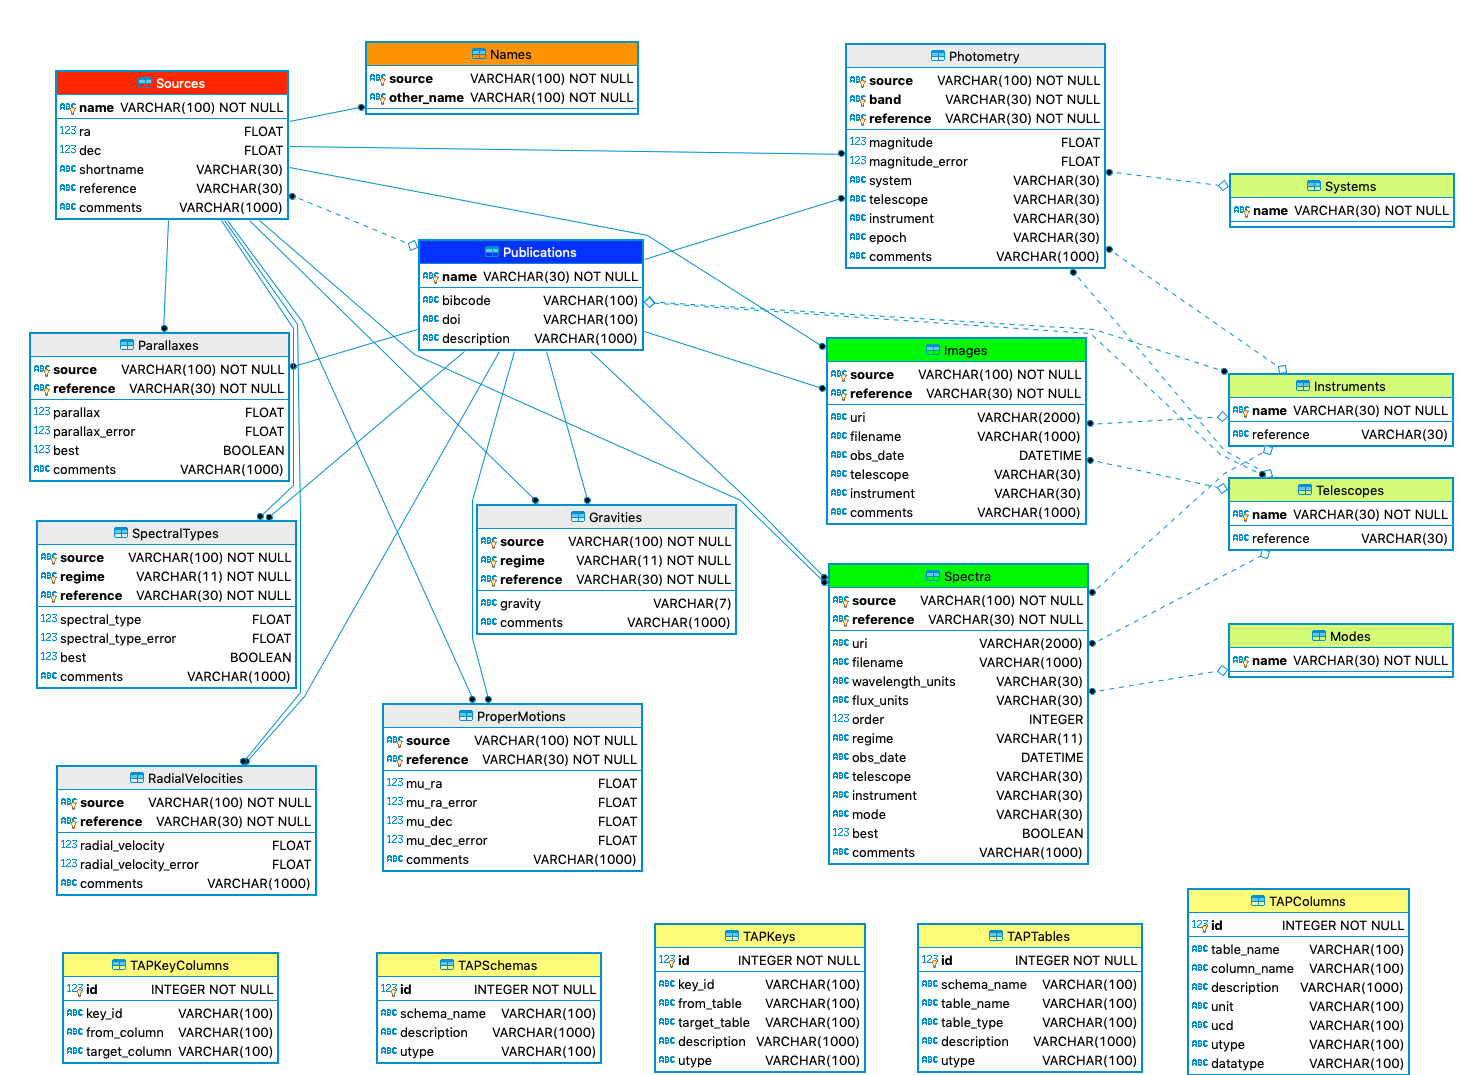
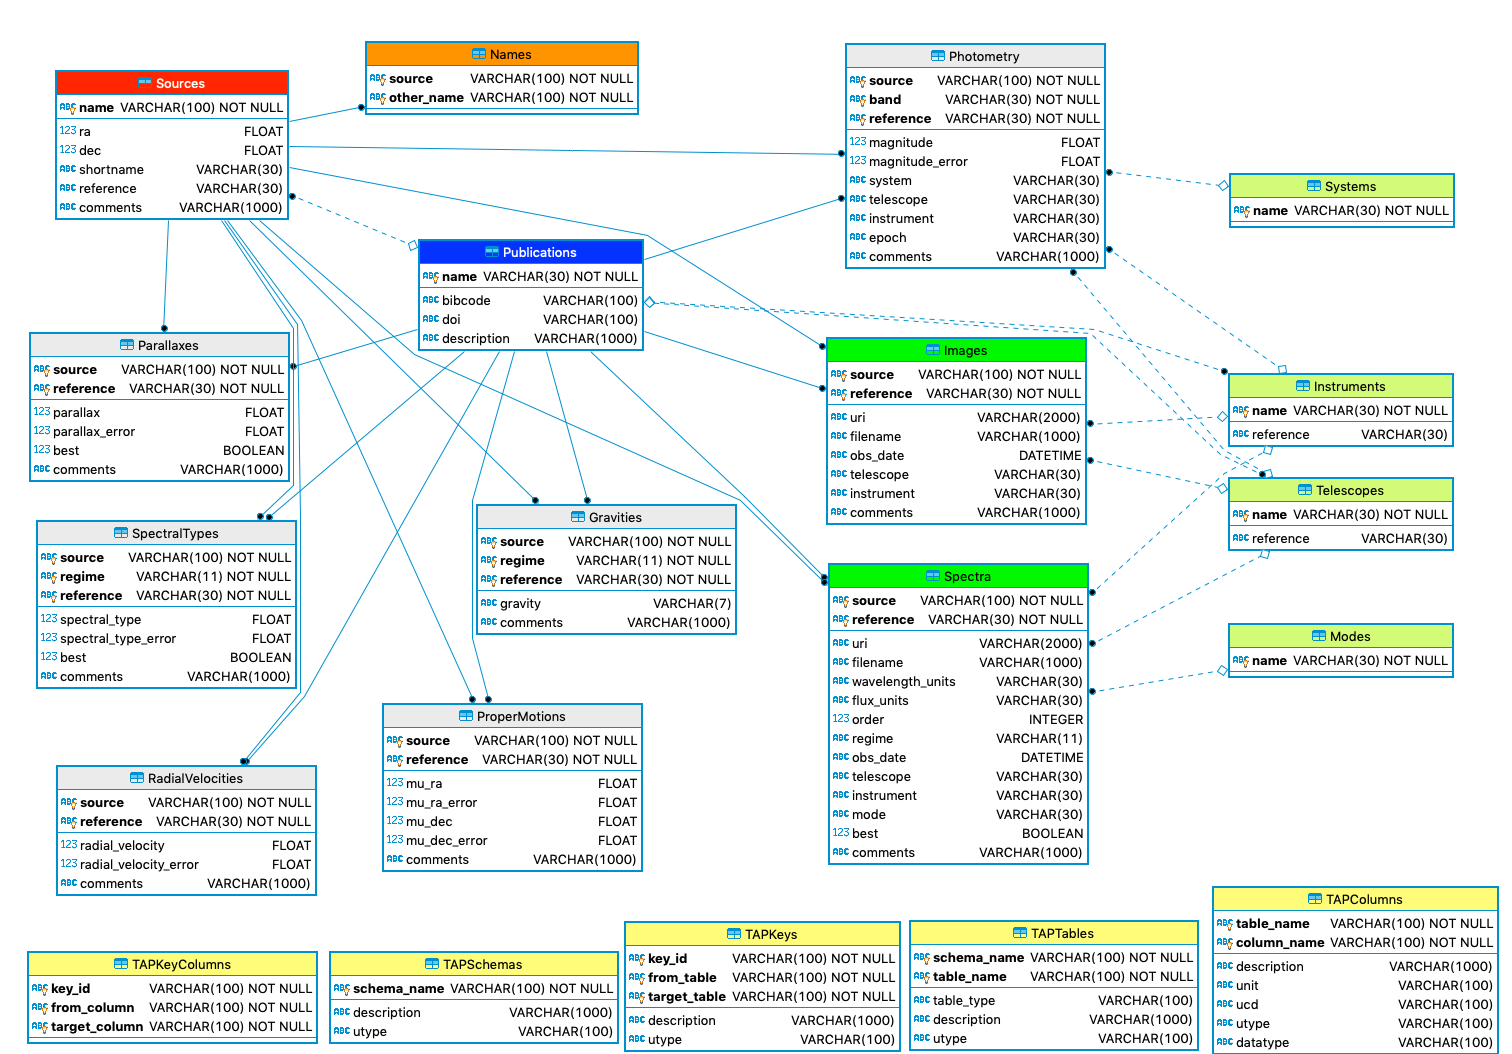
removing surrogate keys from TAP tables; expanding on example queries

diff --git a/scripts/dr_testing.py b/scripts/dr_testing.py
@@ -1,6 +1,7 @@
 # Using schema.py and db.py to handle the basic db connection and the database schema
 
 from simple.core import load_connection
+from sqlalchemy import or_, and_
 
 # Establish connection to database
 # connection_string = 'postgresql://localhost/SIMPLE'
@@ -17,42 +18,76 @@ base.metadata.drop_all()  # drop all the tables
 base.metadata.create_all()  # this explicitly create the SQLite file
 
 
-# Add references
-from sqlalchemy import Table
-Sources = Table('sources', base.metadata, autoload=True)
-Publications = Table('publications', base.metadata, autoload=True)
+# Get tables
+metadata = base.metadata
+metadata.reflect(bind=engine)
+print(metadata.tables)
+Sources = metadata.tables['Sources']
+Publications = metadata.tables['Publications']
+SpectralTypes = metadata.tables['SpectralTypes']
+print(Sources)
 
-publications_data = [{'shortname': 'Penguin 101'},
-                     {'shortname': 'Fake 201'}]
+# Alternative, manual way of defining table
+# from sqlalchemy import Table
+# Sources = Table('Sources', base.metadata, autoload=True)
+# Publications = Table('Publications', base.metadata, autoload=True)
+
+# Add references
+publications_data = [{'name': 'Penguin 101'},
+                     {'name': 'Fake 201'}]
 Publications.insert().execute(publications_data)
 
 # Add sources
-sources_data = [{'ra': 12, 'dec': 23, 'designation': 'Fake 1', 'reference': 'Penguin 101'},
-                {'ra': 212, 'dec': -23, 'designation': 'Fake 2', 'reference': 'Fake 201'}
+sources_data = [{'ra': 12, 'dec': 23, 'name': 'Fake 1', 'reference': 'Penguin 101'},
+                {'ra': 212, 'dec': -23, 'name': 'Fake 2', 'reference': 'Fake 201'}
                 ]
 Sources.insert().execute(sources_data)
 
 # Add source without valid reference- should through an foreign key error
-# empty reference should be fine unless I set the column as nullable=False
-sources_data = [{'ra': 32, 'dec': 54, 'designation': 'Fake 3', 'reference': 'Unknown'}]
+sources_data = [{'ra': 32, 'dec': 54, 'name': 'Fake 3', 'reference': 'Unknown'}]
 Sources.insert().execute(sources_data)
+# Empty references will also fail
+sources_data = [{'ra': 32, 'dec': 54, 'name': 'Fake 4'}]
+Sources.insert().execute(sources_data)
+
+# Spectral Types need regime (an enumeration) supplied in addition to a valid source and reference
+sp_data = [{'source': 'Fake 1', 'spectral_type': 13, 'regime': 'optical', 'reference': 'Fake 201'}]
+SpectralTypes.insert().execute(sp_data)
 
 # Query examples
 results = session.query(Sources).all()
 print(results)
+print(session.query(Publications).all())
+print(session.query(SpectralTypes).all())
 
 results = session.query(Sources).filter(Sources.c.dec > 0).all()
 print(results)
 
-results = session.query(Sources.c.designation).order_by(Sources.c.dec).all()
+results = session.query(Sources.c.name).order_by(Sources.c.dec).all()
 print(results)
 
-results = session.query(Sources.c.designation, Sources.c.reference, Publications.c.shortname)\
-    .join(Publications, Sources.c.reference == Publications.c.shortname).all()
+results = session.query(Sources.c.name, Sources.c.reference, Publications.c.name)\
+    .join(Publications, Sources.c.reference == Publications.c.name).all()
 print(results)
 
+# Update a row
+stmt = SpectralTypes.update().\
+            where(and_(SpectralTypes.c.source == 'Fake 1', SpectralTypes.c.reference == 'Fake 201')).\
+            values(spectral_type=15)
+engine.execute(stmt)
+
+# Direct SQL queries
 results = engine.execute('SELECT * FROM sources').fetchall()
 print(results)
 
+# Alternative query style
+stmt = Sources.select()
+results = engine.execute(stmt)
+print(list(results))
 
+from sqlalchemy import select
+select_st = select([Sources]).where(or_(Sources.c.name == 'Fake 1', Sources.c.name == 'Fake 2')).order_by(Sources.c.ra)
+results = engine.execute(select_st)
+for res in results:
+    print(res)
 

diff --git a/simple/schema.py b/simple/schema.py
@@ -68,7 +68,7 @@ class Sources(Base):
     ra = Column(Float)
     dec = Column(Float)
     shortname = Column(String(30))  # not needed?
-    reference = Column(String(30), ForeignKey('Publications.name'))
+    reference = Column(String(30), ForeignKey('Publications.name'), nullable=False)
     comments = Column(String(1000))
 
 
@@ -182,8 +182,8 @@ class Images(Base):
 class TAPColumns(Base):
     """ORM for the TAP SCHEMA"""
     __tablename__ = 'TAPColumns'
-    table_name = Column(String(100))
-    column_name = Column(String(100))
+    table_name = Column(String(100), primary_key=True)
+    column_name = Column(String(100), primary_key=True)
     description = Column(String(1000))
     unit = Column(String(100))
     ucd = Column(String(100))
@@ -193,45 +193,40 @@ class TAPColumns(Base):
     principal = Integer
     indexed = Integer
     std = Integer
-    id = Column(Integer, primary_key=True, nullable=False, autoincrement=True)  # added to avoid SQLAlchemy errors
 
 
 class TAPKeyColumns(Base):
     """ORM for the TAP SCHEMA"""
     __tablename__ = 'TAPKeyColumns'
-    key_id = Column(String(100))
-    from_column = Column(String(100))
-    target_column = Column(String(100))
-    id = Column(Integer, primary_key=True, nullable=False, autoincrement=True)  # added to avoid SQLAlchemy errors
+    key_id = Column(String(100), primary_key=True)
+    from_column = Column(String(100), primary_key=True)
+    target_column = Column(String(100), primary_key=True)
 
 
 class TAPKeys(Base):
     """ORM for the TAP SCHEMA"""
     __tablename__ = 'TAPKeys'
-    key_id = Column(String(100))
-    from_table = Column(String(100))
-    target_table = Column(String(100))
+    key_id = Column(String(100), primary_key=True)
+    from_table = Column(String(100), primary_key=True)
+    target_table = Column(String(100), primary_key=True)
     description = Column(String(1000))
     utype = Column(String(100))
-    id = Column(Integer, primary_key=True, nullable=False, autoincrement=True)  # added to avoid SQLAlchemy errors
 
 
 class TAPSchemas(Base):
     """ORM for the TAP SCHEMA"""
     __tablename__ = 'TAPSchemas'
-    schema_name = Column(String(100))
+    schema_name = Column(String(100), primary_key=True)
     description = Column(String(1000))
     utype = Column(String(100))
-    id = Column(Integer, primary_key=True, nullable=False, autoincrement=True)  # added to avoid SQLAlchemy errors
 
 
 class TAPTables(Base):
     """ORM for the TAP SCHEMA"""
     __tablename__ = 'TAPTables'
-    schema_name = Column(String(100))
-    table_name = Column(String(100))
+    schema_name = Column(String(100), primary_key=True)
+    table_name = Column(String(100), primary_key=True)
     table_type = Column(String(100))
     description = Column(String(1000))
     utype = Column(String(100))
-    id = Column(Integer, primary_key=True, nullable=False, autoincrement=True)  # added to avoid SQLAlchemy errors
 
